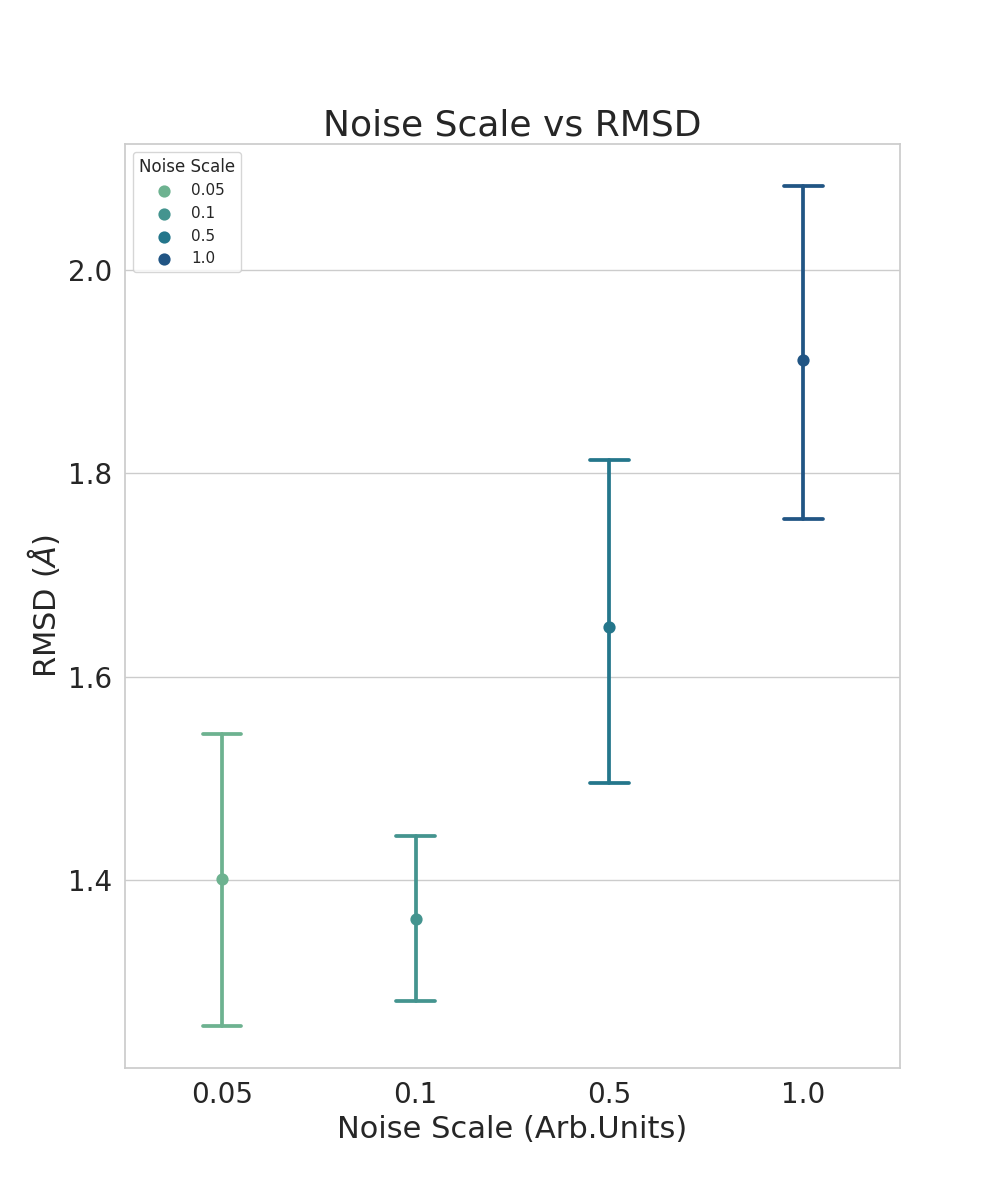
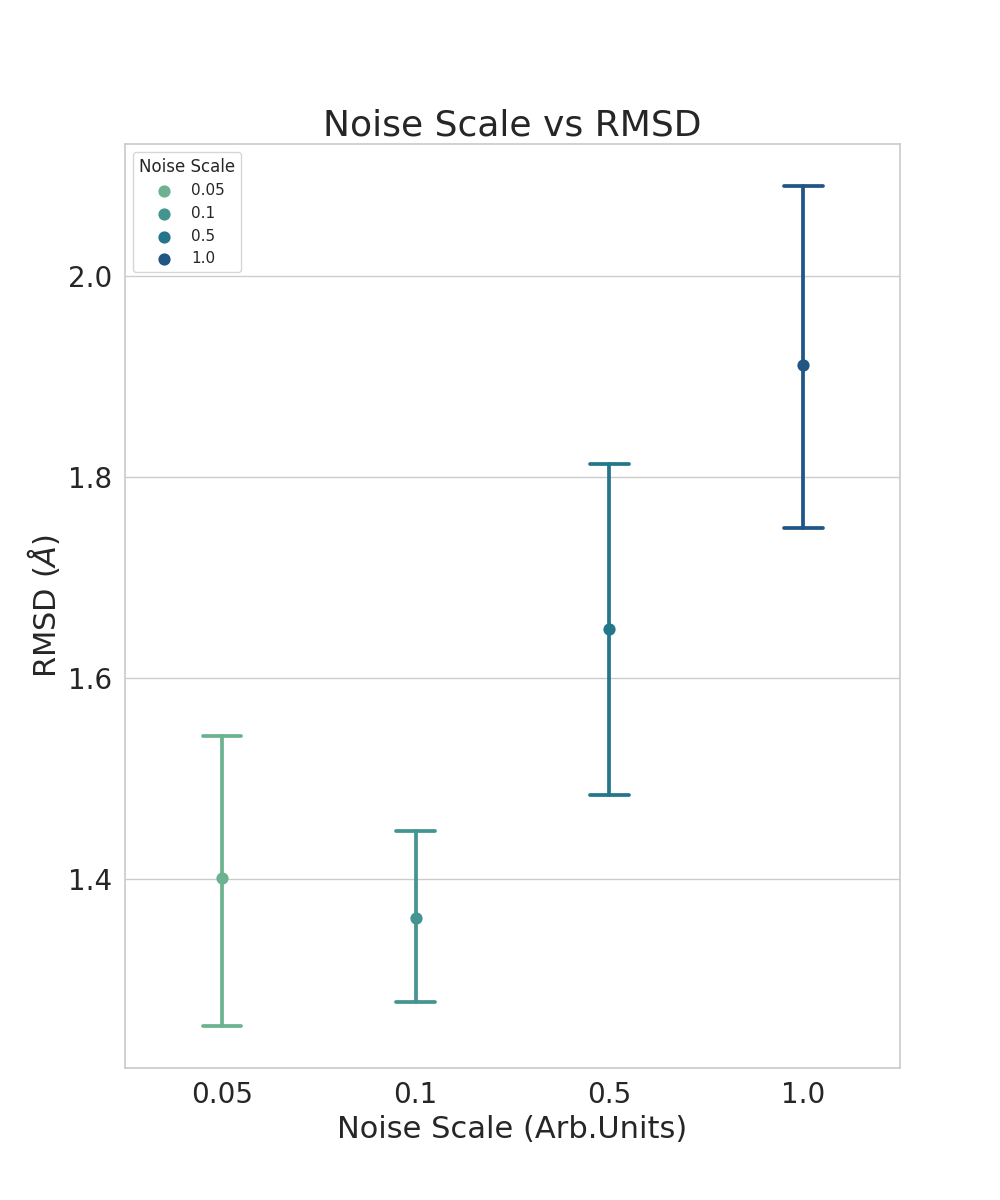
rmsd

diff --git a/FIGURES/Noise_Scale_figures.py b/FIGURES/Noise_Scale_figures.py
@@ -114,9 +114,9 @@ annotator.configure(
     fontsize=18)
     
 annotator.apply_and_annotate()
-plt.title('RMSD vs Noise Scale', fontsize=26)
+plt.title('Noise Scale vs RMSD', fontsize=26)
 plt.ylabel(f'RMSD ($\AA$)', fontsize=22)
-plt.xlabel('Noise Scale (Arb.U)', fontsize=22)
+plt.xlabel('Noise Scale (Arb.Units)', fontsize=22)
 plt.tick_params(axis='y', labelsize=20)
 plt.tick_params(axis='x', labelsize=20)
 

diff --git a/FIGURES/Figure_noise_steps.py b/FIGURES/Figure_noise_steps.py
@@ -110,7 +110,7 @@ annotator.configure(
     fontsize=18)
     
 annotator.apply_and_annotate()
-plt.title('RMSD vs Noise Steps', fontsize=26)
+plt.title('Noise Steps vs RMSD', fontsize=26)
 plt.ylabel(f'RMSD ($\AA$)', fontsize=22)
 plt.xlabel('Noise Steps(#)', fontsize=22)
 plt.tick_params(axis='y', labelsize=20)
